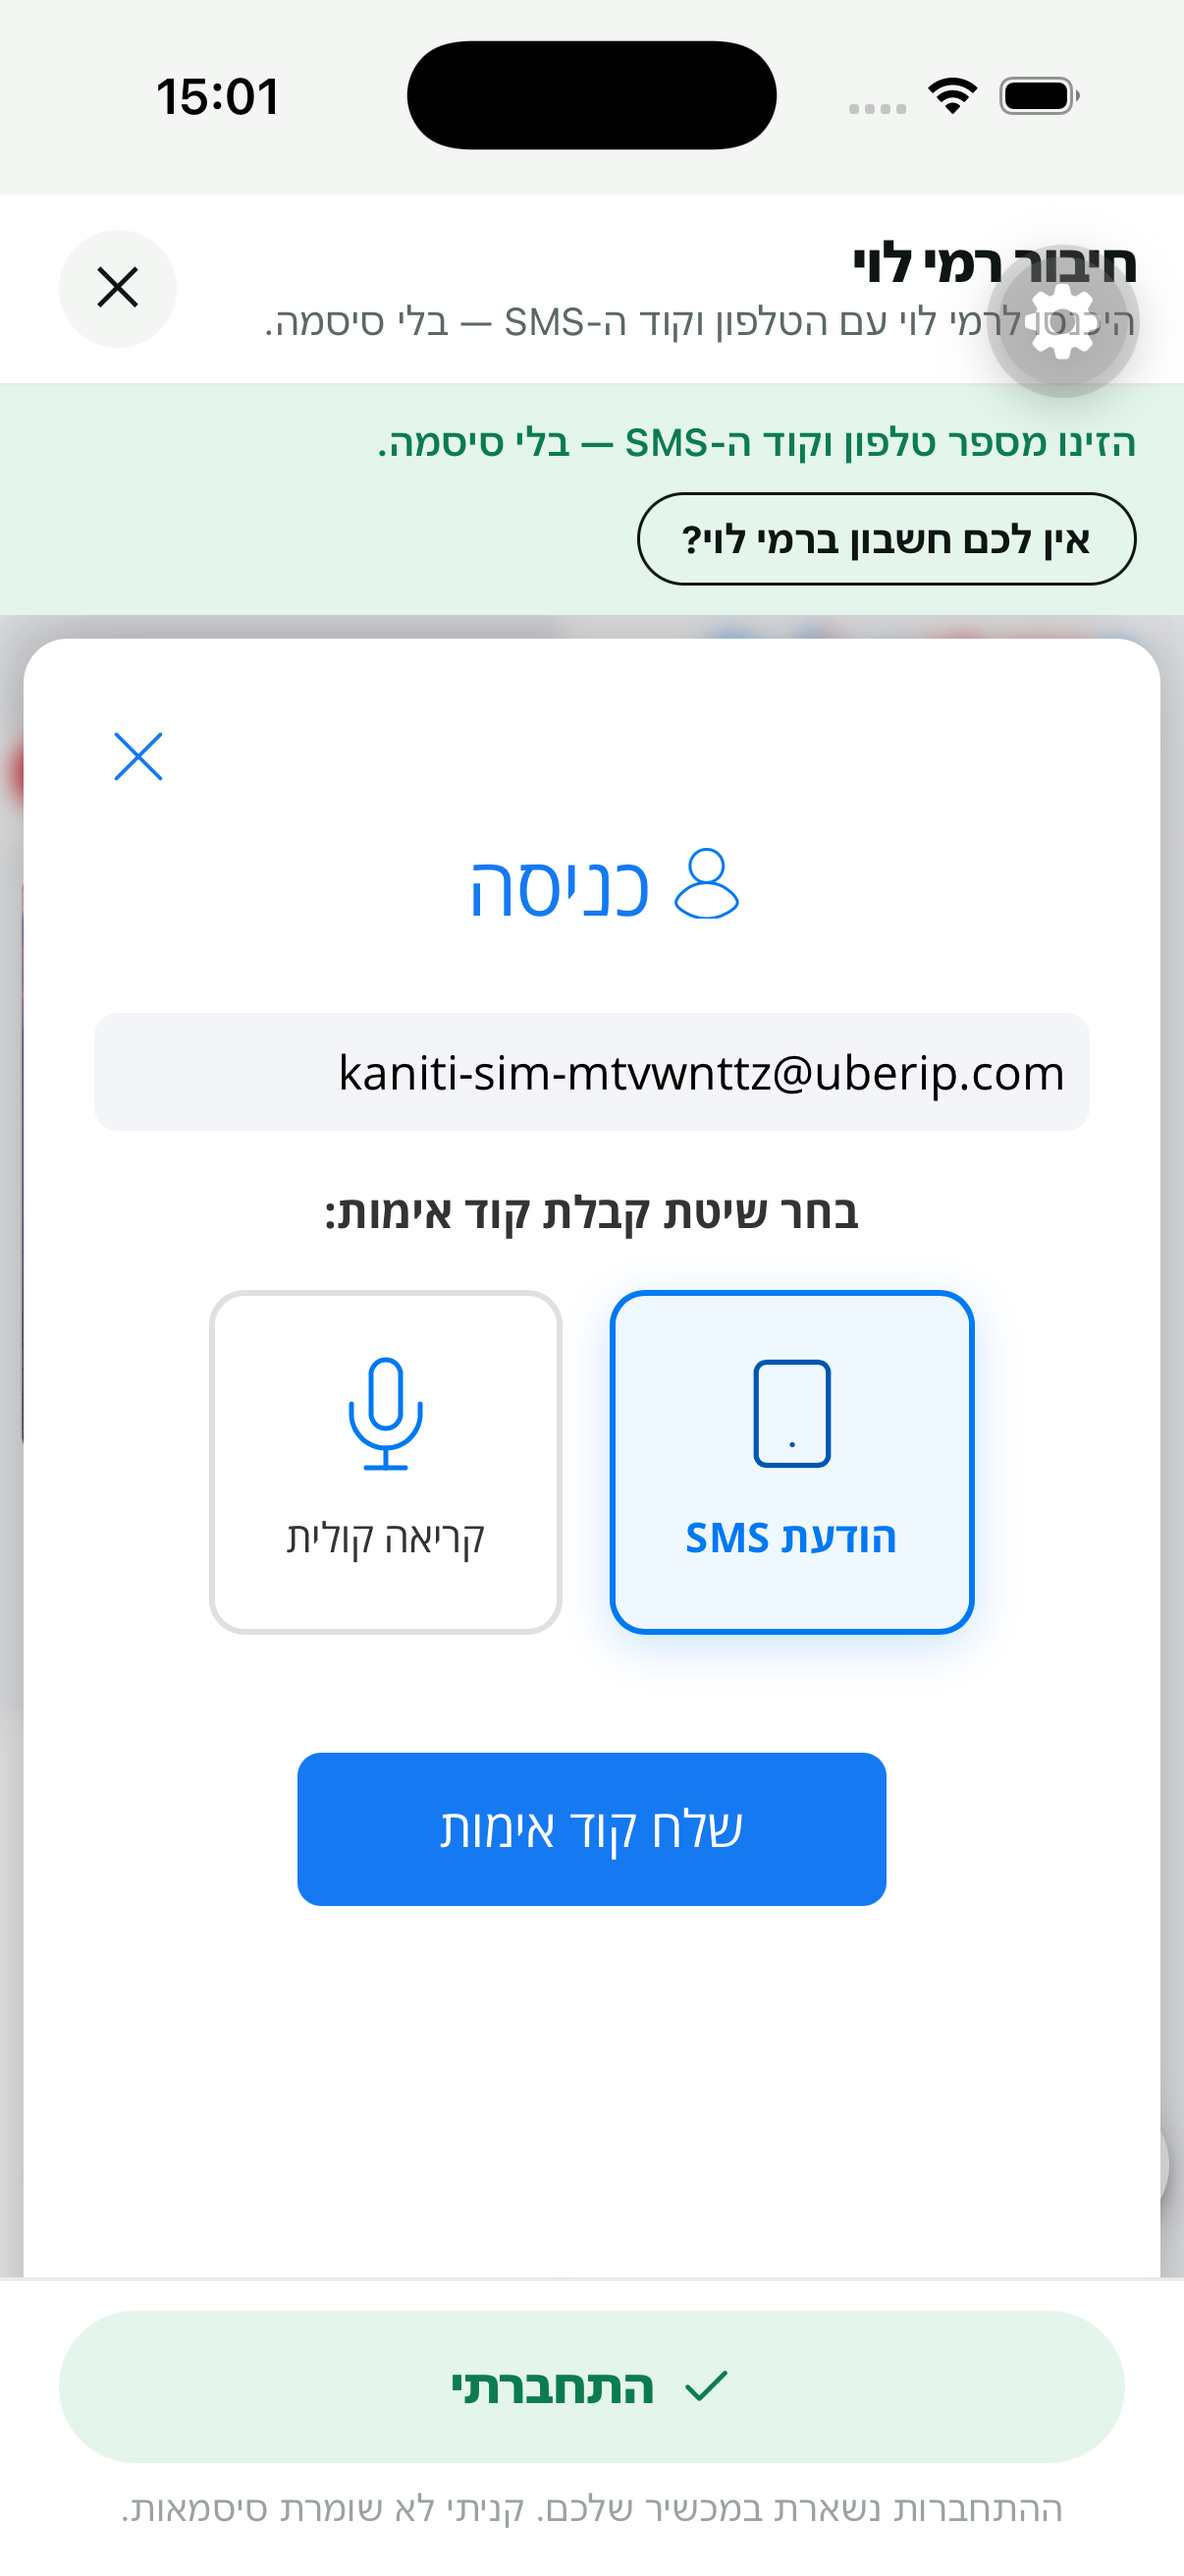
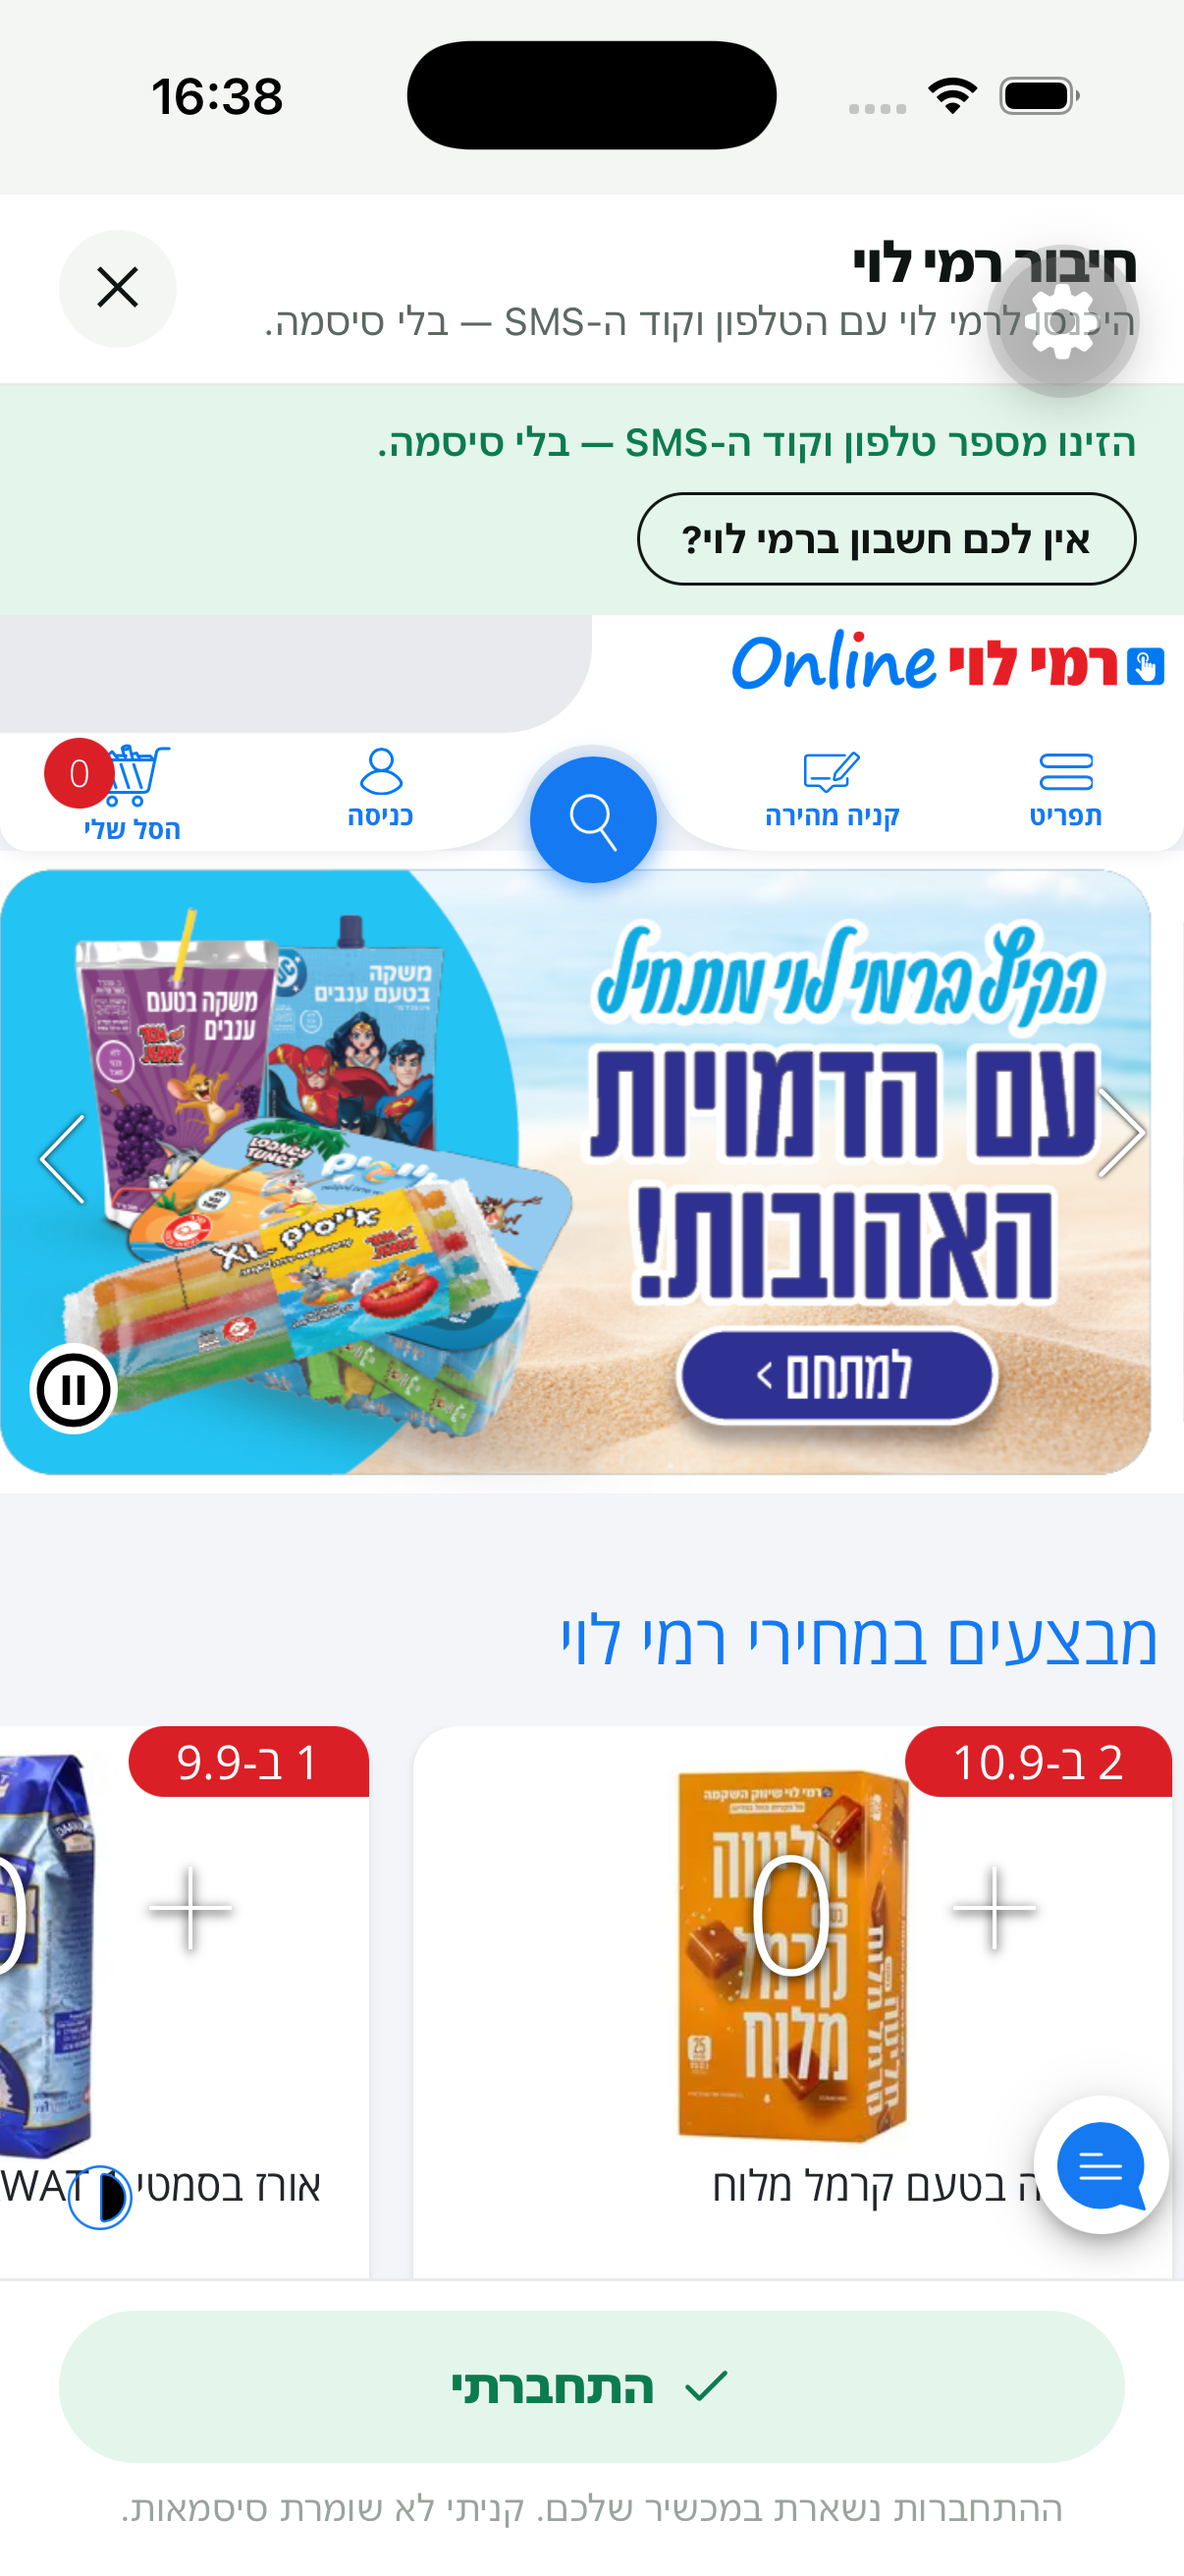
Ops: health checks (stores, cart, prices, api, unit, recipes, sim), repair orchestrator with sub-agents (store-recipe-fixer, price-portal-fixer, sim-flow-fixer, api-fixer), daily launchd run, phone-error alarms in Terraform, shared CLAUDE.md rules
Claude-Session: https://claude.ai/code/session_0149qpRhxvNuTQ9WBA9pcsvf

diff --git a/apps/api/src/index.ts b/apps/api/src/index.ts
@@ -389,7 +389,8 @@ export async function handler(event: Event): Promise<APIGatewayProxyResultV2> {
       const raw = arr<{ at?: string; lines?: { name?: string; code?: string; qty?: number }[] }>(body['orders'], 'orders');
       // The phone's diagnostic of what the store returned - the only window we
       // have into a session that lives on the device.
-      console.log('import-history', JSON.stringify({ hid, retailer: body['retailer'], orders: raw.length, lines: raw.reduce((n, o) => n + (o.lines?.length ?? 0), 0), diag: body['diag'] ?? null }));
+      // One JSON line per report, so CloudWatch metric filters can count store errors seen by real phones.
+      console.log(JSON.stringify({ event: 'import-history', hid, retailer: body['retailer'], orders: raw.length, lines: raw.reduce((n, o) => n + (o.lines?.length ?? 0), 0), diag: body['diag'] ?? null }));
       return ok(await importRawOrders(hid, catalog, raw));
     }
 

diff --git a/ops/README.md b/ops/README.md
@@ -1,0 +1,47 @@
+# Kaniti ops — the bots that keep the stores working
+
+Stores change without notice: a new consent sheet, an advertisement layer, a
+Cloudflare challenge, a moved login, a renamed price file. The product has to
+stay on top of them without a person noticing. This directory is that loop.
+
+## What runs
+
+| Check | What it proves | Where |
+|---|---|---|
+| `recipes` | every store recipe string still parses | node |
+| `unit` | every package's tests | node |
+| `stores` | each of the 9 stores: page loads, no Cloudflare block/challenge, its own sign-in on screen, the detector says logged-out, the sign-up filler finds fields | WebKit, iPhone emulation, this network |
+| `cart` | Rami Levy's guest cart recipe adds real lines | WebKit |
+| `prices` | the price-transparency portals answer and price a basket at nearby branches | node, portals |
+| `api` | sign in as the test family, get a quote with options (and the in-store view) | the live API |
+| `sim` (`--sim`) | the iOS simulator connect flow for all 9 stores and the order flow | Xcode simulator + Maestro |
+
+`node ops/check.mjs [--sim] [--only a,b]` runs them (browser checks in parallel), prints a table and writes `~/.kaniti/health/latest.json`.
+
+## What repairs
+
+`ops/repair.sh` runs the checks and, when something is red, starts a headless
+Claude Code run (`claude -p`) as the orchestrator. It dispatches the sub-agents in
+`.claude/agents/`:
+
+- `store-recipe-fixer` — a store changed its site (login, consent, detector, cart)
+- `price-portal-fixer` — a chain changed its price portal
+- `sim-flow-fixer` — a simulator flow went red (geometry, stale bundle, a screen)
+- `api-fixer` — API, tests, recipe guard
+
+Each agent must reproduce in the labs, fix, and prove it with the same labs; the
+orchestrator re-runs the failed checks, commits, and pushes `origin main`. Pushing
+is deploying for the phone app (Metro tunnel / OTA); the API deploys with
+Terraform, which the person runs. Anything that needs a human (a locked account, a
+portal behind a login, an expired AWS session) is written to `ops/NEEDS-HUMAN.md`.
+
+`ops/install.sh` schedules `ops/repair.sh` every morning at 06:40 on this Mac
+(launchd, `com.kaniti.ops`); `launchctl start com.kaniti.ops` runs it now. Logs:
+`~/.kaniti/health/run-*.log`. A macOS notification says healthy / repaired / still unhealthy.
+
+## What the phones report
+
+Every store screen on a phone reports load errors, HTTP 4xx/5xx and Cloudflare
+guards to the API (`import-history` log events with `diag`). `infrastructure/terraform/app/alarms.tf`
+turns those into a CloudWatch alarm that e-mails the owner, so a store breaking for real
+families is known the same hour, not the next morning.

diff --git a/.claude/agents/store-recipe-fixer.md b/.claude/agents/store-recipe-fixer.md
@@ -1,0 +1,17 @@
+---
+name: store-recipe-fixer
+description: Repairs a grocery store's on-device recipes in apps/mobile/src/lib/stores.ts and apps/mobile/src/screens/StoreLink.tsx when the store changed its site — login not reachable, a new consent/ad sheet, a Cloudflare challenge, the signed-in detector wrong, the cart recipe not adding lines. Use for failures of the `stores` or `cart` health checks, or a phone-reported store error.
+tools: Read, Grep, Glob, Edit, Write, Bash
+model: inherit
+---
+You fix how Kaniti talks to one store's website, so a family on a phone meets the store's own sign-in and nothing else.
+
+Ground rules (never break these):
+- Work in a real browser first: `cd apps/mobile && node --experimental-strip-types e2e/store-health.mjs <store>` shows what a phone meets; `e2e/detector-why.mjs <store> [url]` explains the signed-in detector; `e2e/store-lab.mjs`, `e2e/signup-fill-lab.mjs`, `e2e/cart-recipe-lab.mjs <store>` cover the rest. Reproduce before editing.
+- Never submit a login, send an SMS or e-mail, create an account, or store PII. The labs abort non-GET requests for a reason.
+- A Cloudflare challenge is the person's to click: the app shows it untouched (see GUARD_TEST in StoreLink.tsx). Do not try to solve or bypass it.
+- The signed-in detector must never say "signed in" on a logged-out page. After any change run `node --experimental-strip-types e2e/detector-lab.mjs` (all stores) and `npm run check:recipes`; both must be clean.
+- Recipes are strings evaluated inside the WebView: no `\/` escapes that break the syntax guard, no `return` at the top level.
+- Prefer one generic fix in the platform recipe (stor.ai, Rami Levy, Wolt, Shufersal, Hatzi Hinam) over per-store patches; keep the store's own words (Hebrew) the detector looks for in the regexes, and anchor them at word starts.
+- Verify with `node --experimental-strip-types e2e/store-health.mjs` for all stores, then `npx tsc --noEmit -p apps/mobile/tsconfig.json`.
+Report: what the store changed, what you changed, and the lab output that proves it.

diff --git a/.claude/agents/price-portal-fixer.md b/.claude/agents/price-portal-fixer.md
@@ -1,0 +1,14 @@
+---
+name: price-portal-fixer
+description: Repairs the in-store price readers in services/branch-prices (price-transparency portals: Shufersal, Cerberus/publishedprices, Carrefour, Hatzi Hinam) when a portal changed its listing, file names, encoding or login. Use for failures of the `prices` health check.
+tools: Read, Grep, Glob, Edit, Write, Bash
+model: inherit
+---
+You keep Kaniti's "and if we drive there?" numbers flowing: every chain's daily price files must still be found, downloaded and parsed.
+
+- Reproduce with `node --experimental-strip-types services/branch-prices/lab.mjs` (a Tel Aviv point) and, for one portal, small node scripts that fetch the listing and print what changed. The portals are plain HTTPS; no browser, no account of ours (Cerberus logins are the chains' public usernames).
+- Files come in any encoding (UTF-8 BOM, UTF-16LE) and gzipped or bare: `decodeXml` must keep handling all of them. Keep `parsePriceFull` skipping weighed goods and non-barcodes.
+- Unit tests: `node --test --experimental-strip-types "services/branch-prices/test/*.test.ts"` must pass; add a test for the shape that changed.
+- Typecheck: `npx tsc --build services/branch-prices && npx tsc -p apps/api/tsconfig.json --noEmit`.
+- A portal that now needs a login we do not have, or that blocks this network, is a human decision: say so in ops/NEEDS-HUMAN.md rather than guessing.
+Report: which portal changed, how, what you changed, and the lab output.

diff --git a/.claude/agents/sim-flow-fixer.md b/.claude/agents/sim-flow-fixer.md
@@ -1,0 +1,13 @@
+---
+name: sim-flow-fixer
+description: Repairs the iOS simulator end-to-end flows (Maestro in apps/mobile/maestro) and the app screens they drive when a flow goes red — a row under the tab bar, a modal under the status bar, a stale bundle, a changed screen. Use for failures of the `sim` health check.
+tools: Read, Grep, Glob, Edit, Write, Bash
+model: inherit
+---
+You keep the simulator loop honest: `apps/mobile/maestro/connect-all.sh` (nine stores: sign-in shown, none falsely connected) and `maestro/run.sh maestro/order.yaml` (list → compare → Rami Levy cart).
+
+- Read `apps/mobile/maestro/README.md` first. Metro for the simulator runs on port 8082 and must never run with CI=1 (watch mode off → stale bundle); the build stamp in the Me header says which bundle runs.
+- Look at the failing step's screenshot under ~/.maestro/tests/<latest>/ and at maestro/shots/ before changing anything; flows fail for geometry (a translucent tab bar, the header) far more often than for logic.
+- Maestro `text:` is a whole-string regex; `launchApp clearState:true` breaks the dev client — never use it; never `pressKey: Enter`.
+- Fix the app when the app is wrong (a real person would hit it too), fix the flow when only the flow is wrong. Rerun the exact failing store: `./maestro/connect-all.sh <store>`; then everything.
+Report: the step that failed, why, what changed, and the green table.

diff --git a/CLAUDE.md b/CLAUDE.md
@@ -1,0 +1,9 @@
+# Kaniti — shared rules for every agent in this repo
+
+- The phone is the product: stores are used from the person's own device, in a WebView, as the person. No credentials or PII are stored by Kaniti; sessions live sealed in the API (ADR 0008).
+- Never submit a store's login, send an SMS/e-mail, or create an account from a lab or a test. Labs abort non-GET requests.
+- A Cloudflare challenge on a store is shown to the person untouched; nothing is injected while it is on screen.
+- Before claiming a store works, prove it: `apps/mobile/e2e/store-health.mjs` (browser), `apps/mobile/maestro/connect-all.sh` (simulator). Before claiming prices work: `services/branch-prices/lab.mjs`.
+- Simulator Metro (port 8082) never runs with `CI=1`; the build stamp in the Me header says which bundle is running.
+- Commit as litansh, push to origin main; deploy AWS with `AWS_PROFILE=personal-cfo` only (never the work account). Terraform apply is the person's to run when the session has expired.
+- Ops: `node ops/check.mjs` runs every check; `ops/repair.sh` runs the checks and, on failure, the repair sub-agents in `.claude/agents/`. Anything that needs a human goes to `ops/NEEDS-HUMAN.md`.

diff --git a/.claude/agents/api-fixer.md b/.claude/agents/api-fixer.md
@@ -1,0 +1,13 @@
+---
+name: api-fixer
+description: Repairs the API (apps/api), the domain and services packages, unit tests and the recipe-syntax guard when the `api`, `unit` or `recipes` health checks fail. Deploys the API only through the documented path.
+tools: Read, Grep, Glob, Edit, Write, Bash
+model: inherit
+---
+You keep the API answering: `node ops/api-health.mjs` signs in as the test family and asks for a quote; `npm test` runs every package's tests; `npm run check:recipes` guards the recipe strings.
+
+- Reproduce first, fix the cause, add a test that would have caught it.
+- Typecheck with `npx tsc --build --force` at the root. Build the API with `npm run build -w apps/api`.
+- Deploying is `cd infrastructure/terraform/app && AWS_PROFILE=personal-cfo terraform apply`; if the AWS session has expired or the change is more than a code update, write ops/NEEDS-HUMAN.md instead of retrying.
+- Never touch secrets, the work AWS account, or household data.
+Report: the failure, the cause, the fix, the test, and whether it is deployed.
